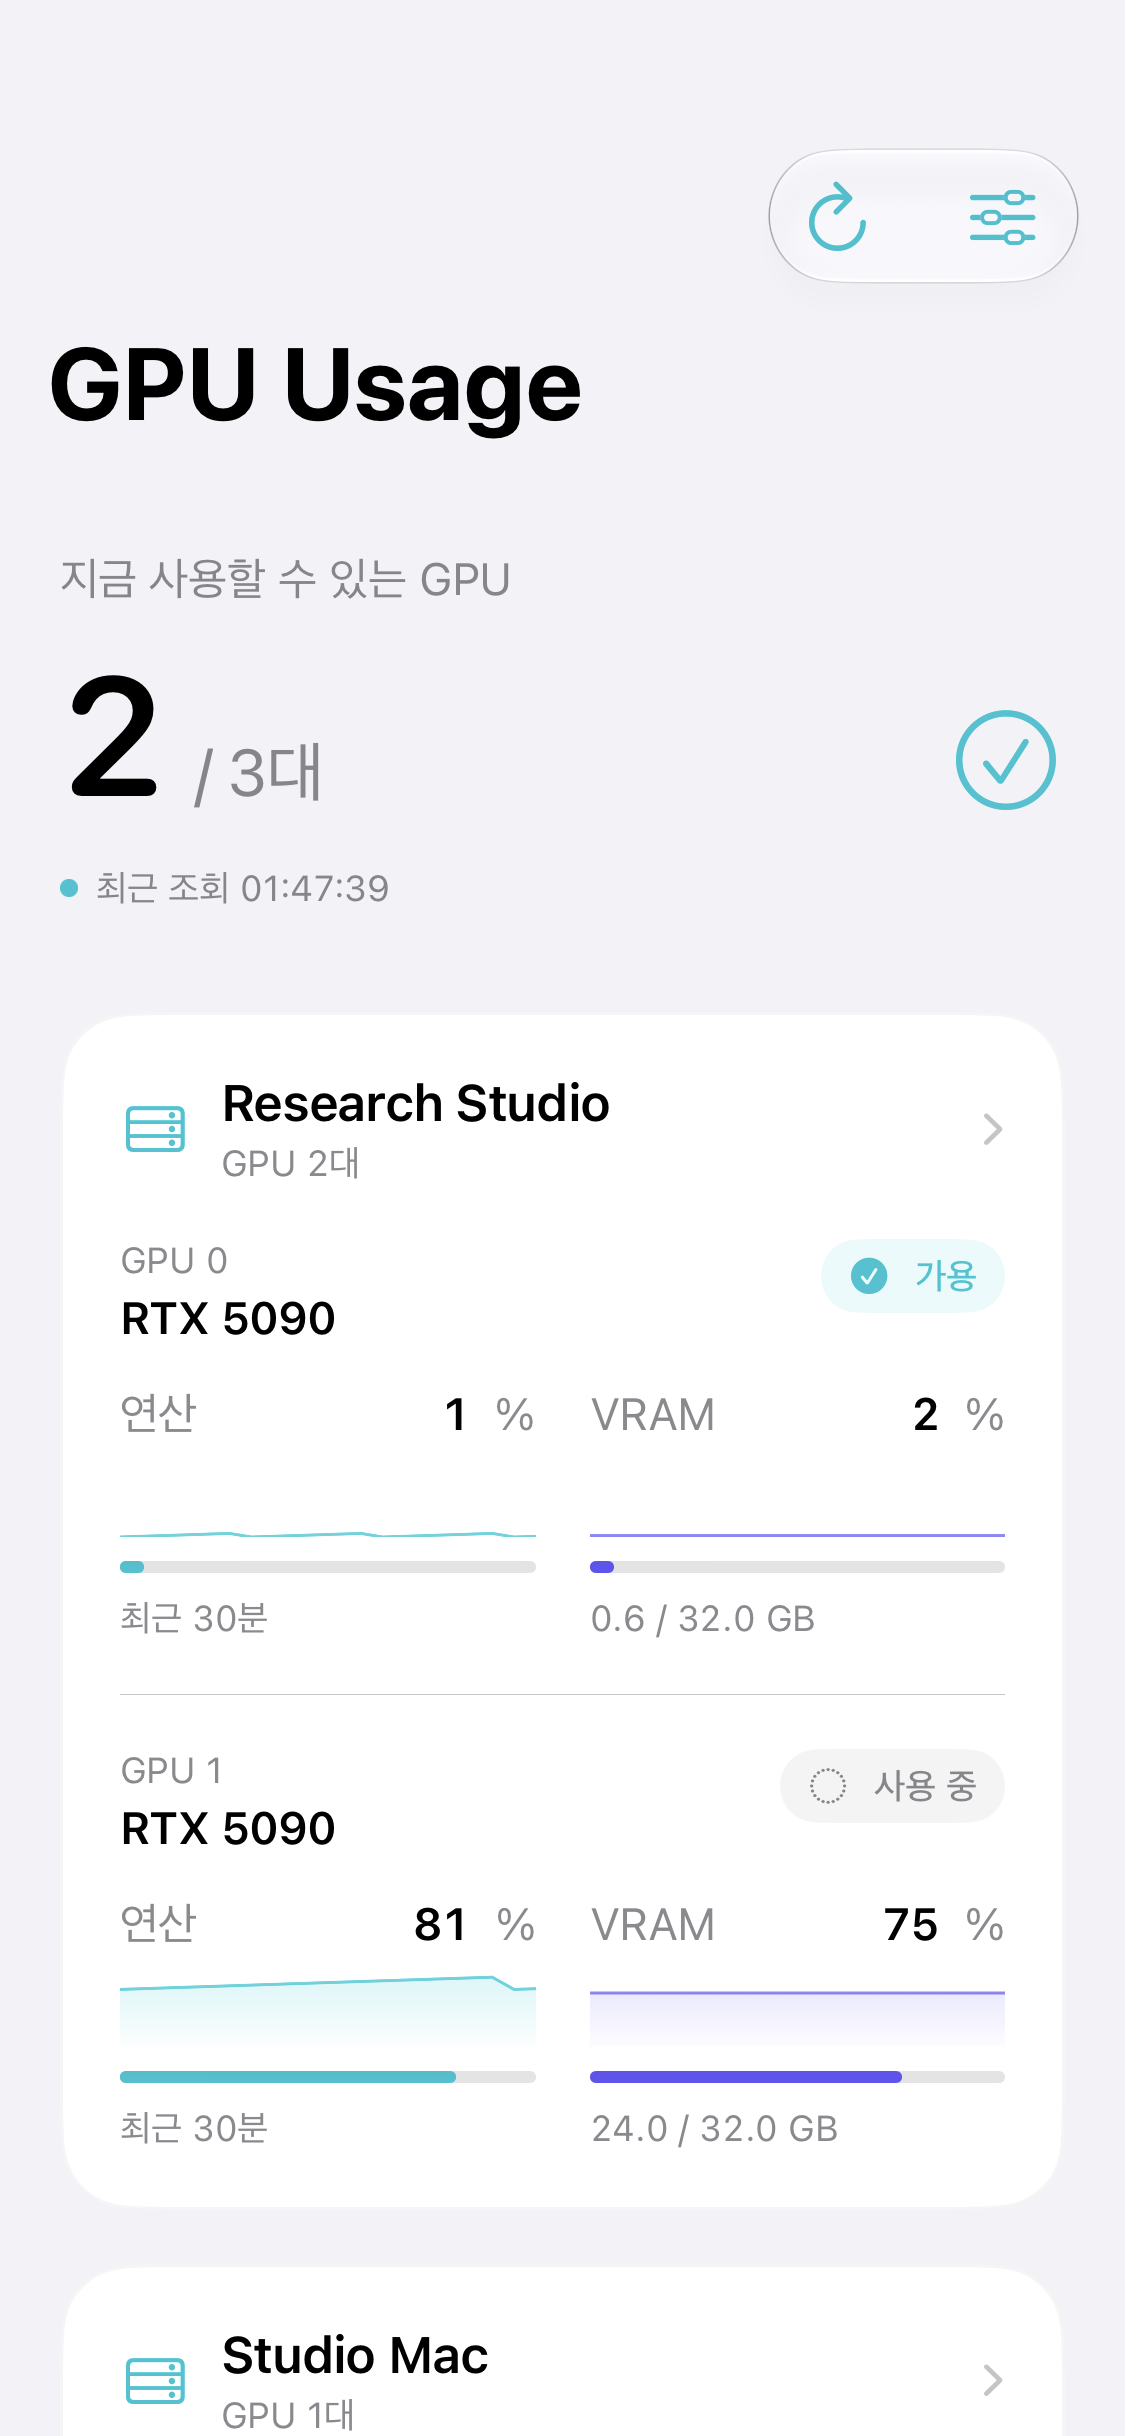
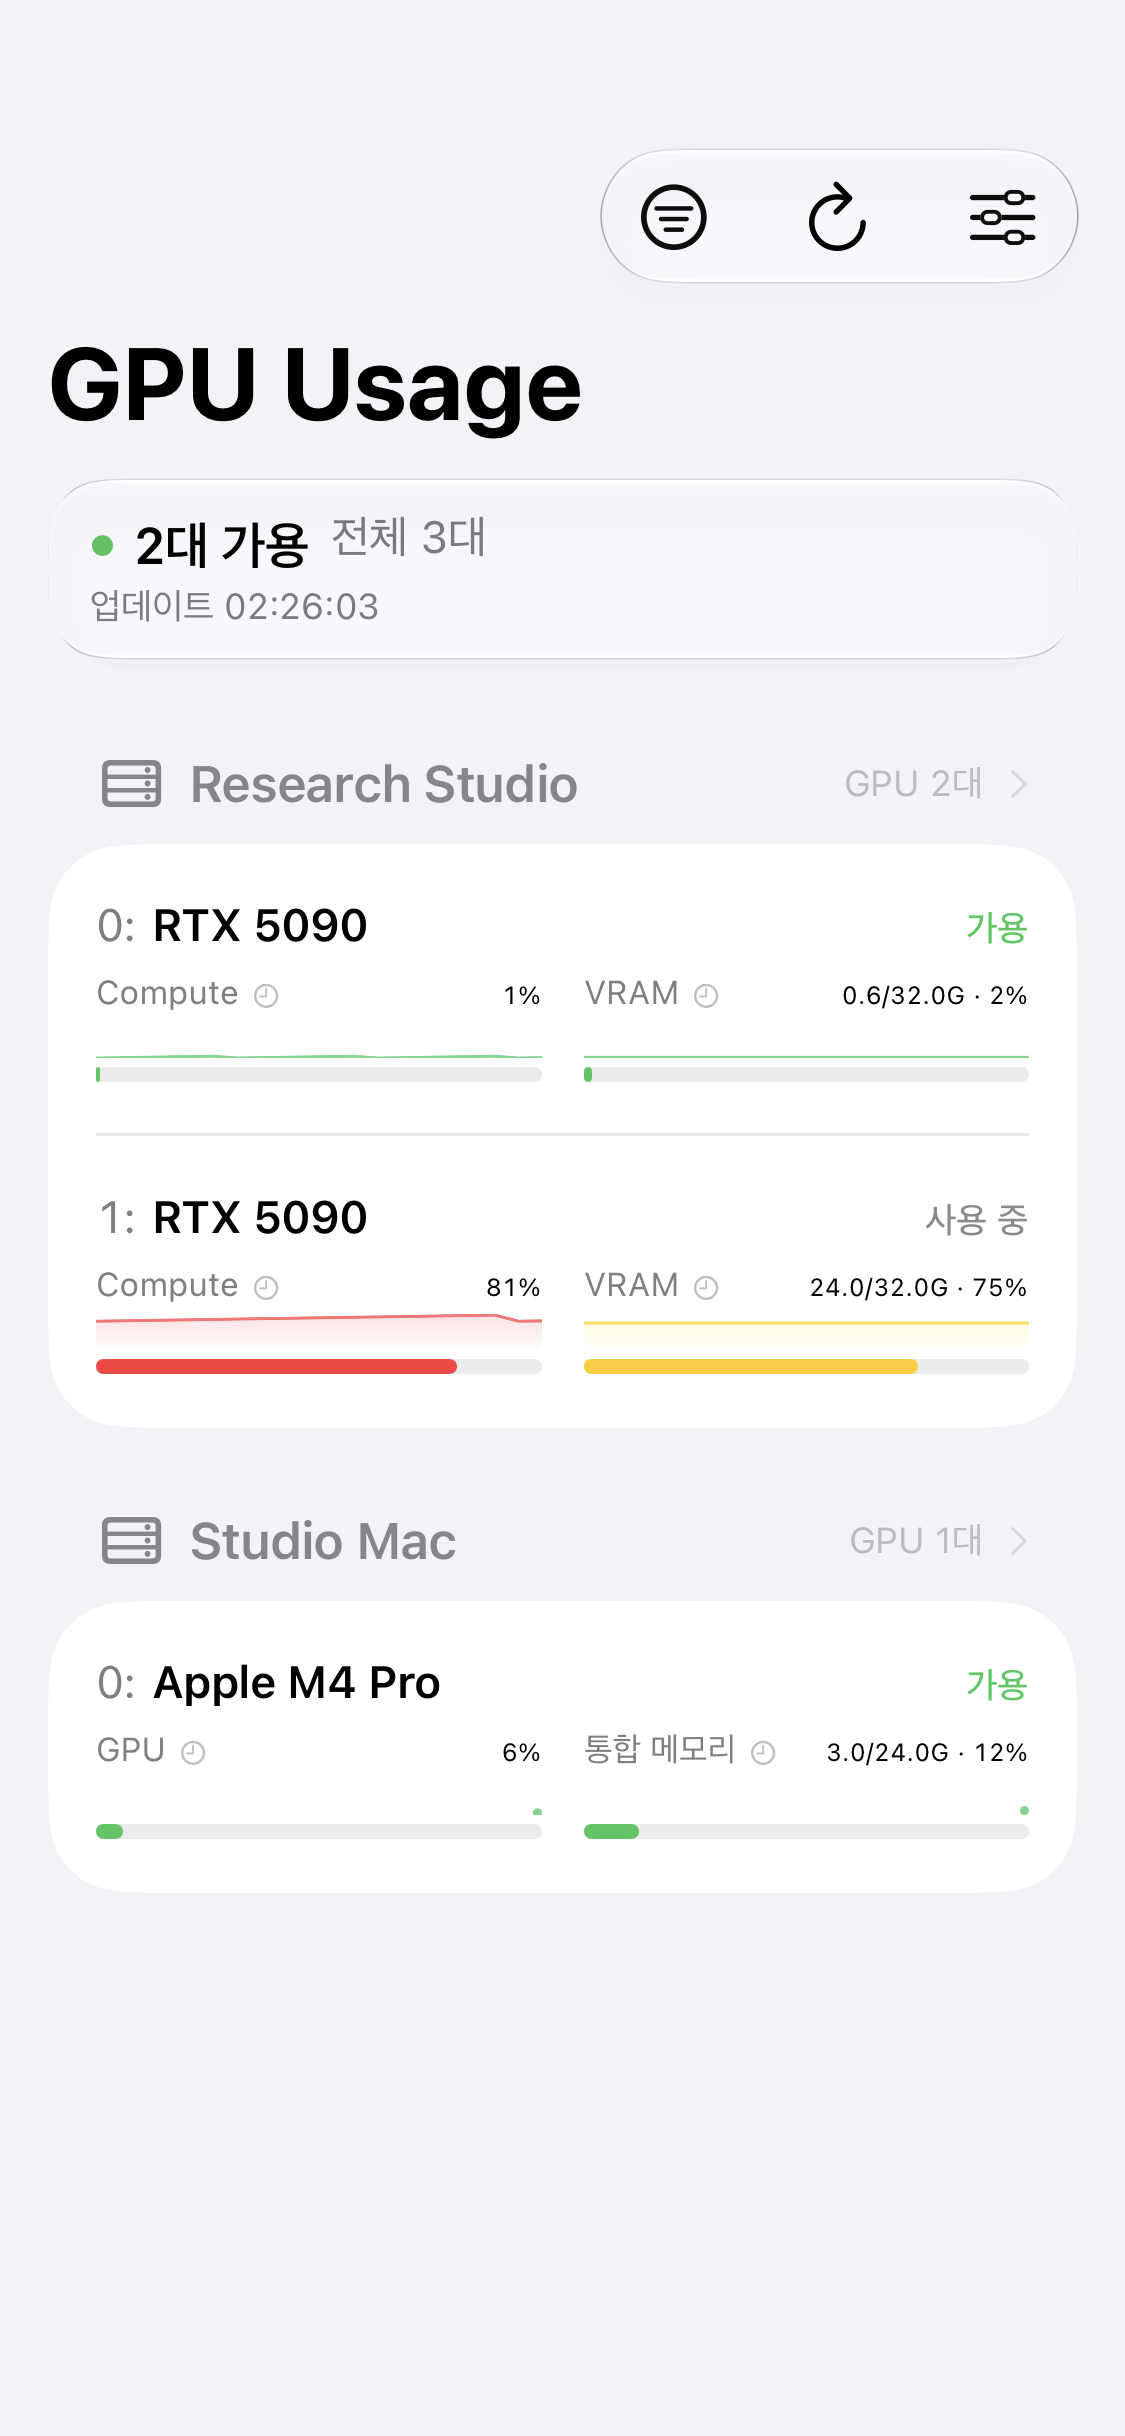
Restore compact GPU Usage interface and document server filter

diff --git a/gpu-usage/README.md b/gpu-usage/README.md
@@ -4,7 +4,7 @@ Your GPUs, everywhere. A small utility for researchers and developers, with nati
 
 **Beta limitation:** Production iCloud setup is pending. Cross-device settings sync and iPhone-to-Mac Pro activation do not work yet. Manual server registration and viewing work independently on each device.
 
-[Download the current beta](https://github.com/saankim/myapps-releases/releases/tag/gpu-usage-v2.1.0) · [Privacy](PRIVACY.md)
+[Download the current beta](https://github.com/saankim/myapps-releases/releases/tag/gpu-usage-v2.1.1) · [Privacy](PRIVACY.md)
 
 ## Install
 
@@ -42,7 +42,9 @@ On macOS the process picker lists the connected user's processes. It cannot iden
 
 ## Monitor
 
-The dashboard separates compute usage and VRAM, with recent history and clear stale-data states. A GPU is available when both values are below your thresholds (default: compute 10%, VRAM 20%). Unreachable servers remain visible and can be disabled.
+The dashboard uses the original compact rows, small usage bars and recent-history charts, with clear stale-data states. A GPU is available when both values are below your thresholds (default: compute 10%, VRAM 20%). Unreachable servers remain visible and can be disabled.
+
+Use the server filter at the top of the dashboard (or in Settings) to choose which servers appear. The GPU count, Mac menu-bar summary and VS Code view follow that selection; the Watch follows the iPhone selection. Hidden servers continue to be queried and can still generate notifications. Select **Show all servers** to include newly discovered servers automatically. CLI host arguments remain independent of the display filter. Selection is saved locally; cross-device sync has the beta limitation above.
 
 The awake Mac polls at your chosen interval while its menu-bar app runs. iPhone and iPad poll while visible; background refresh happens only when the operating system permits it. Apple Watch displays the latest phone snapshot and marks old results for rechecking. Background timing and notifications are not guaranteed. Job completion means the selected process disappeared, not that it succeeded.
 
